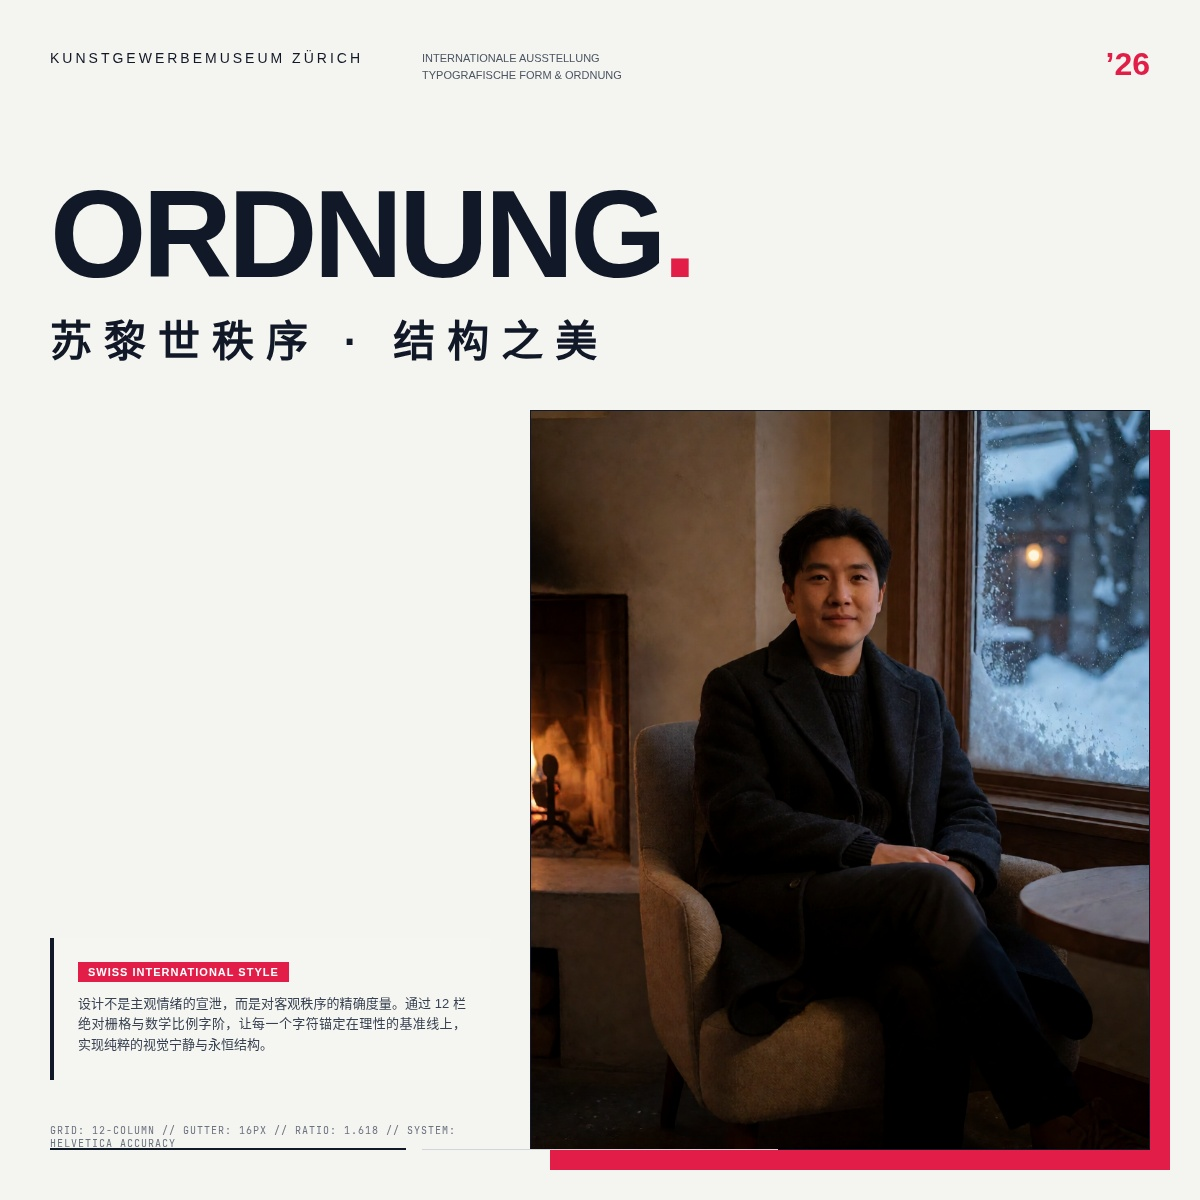
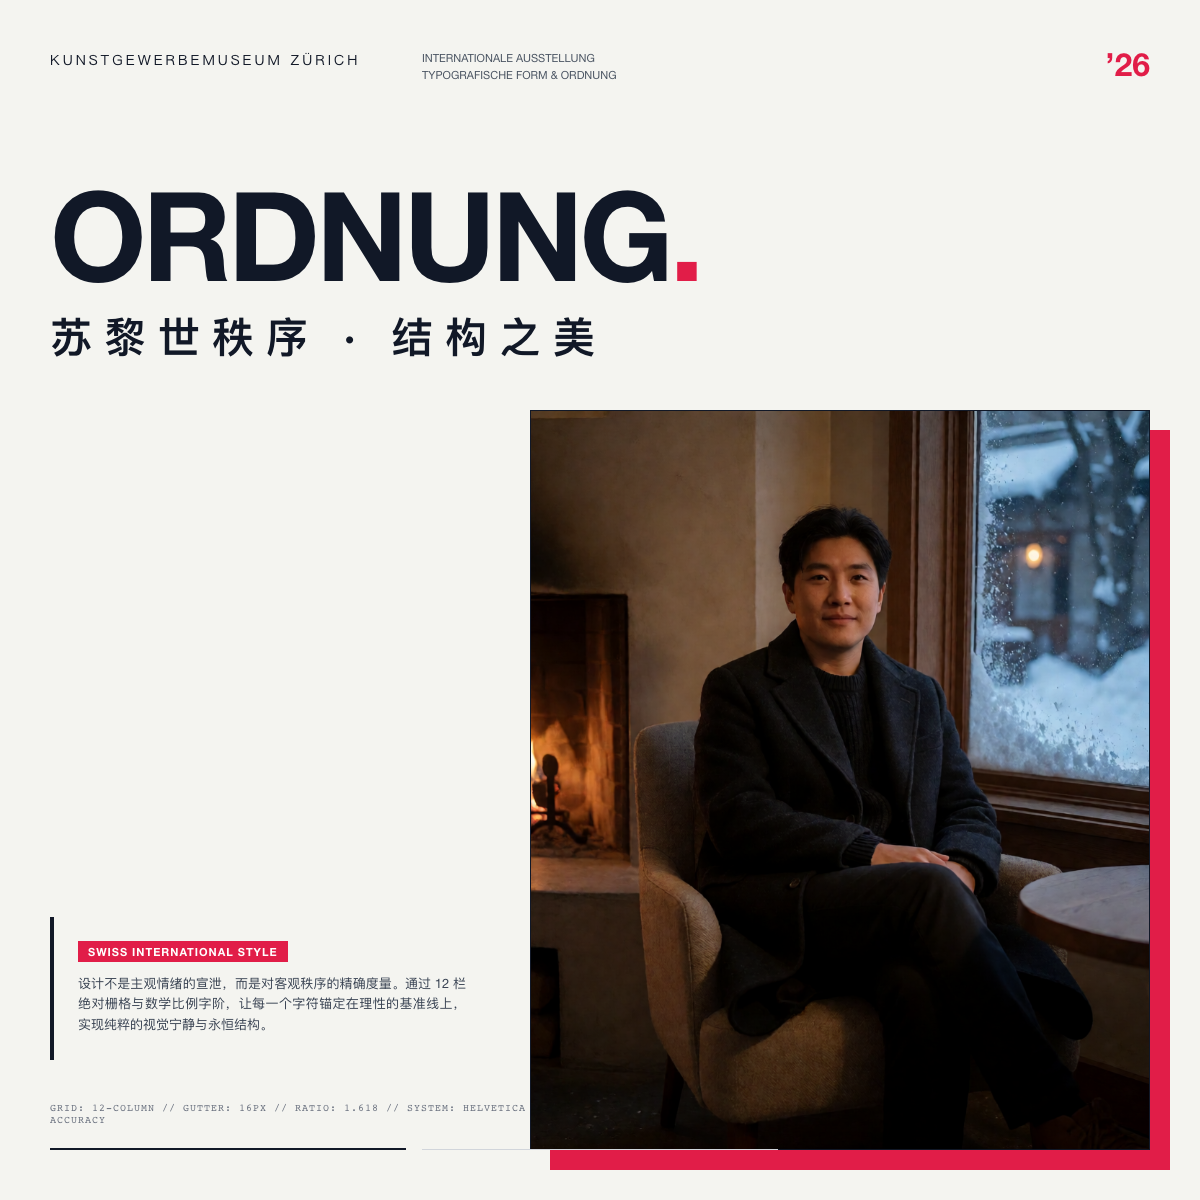
20261008-dev-agnesstudio-footerfix: 瑞士网格海报底部说明文字被裁切修复（footer-specs bottom 50->75px + width 440->500px，manifesto-block 120->140px）；重生成 swiss 系列海报

diff --git a/scripts/studio_server.py b/scripts/studio_server.py
@@ -621,12 +621,12 @@ def generate_custom_poster_html(style, title, subtitle, body, author, bg_uri):
   .main-hero-title span {{ color: #e11d48; }}
   .cn-display-title {{ font-size: 40px; font-weight: 800; letter-spacing: 10px; margin-top: 18px; color: #111827; }}
   .manifesto-block {{
-    position: absolute; bottom: 120px; left: 50px; width: 440px; z-index: 5;
+    position: absolute; bottom: 140px; left: 50px; width: 440px; z-index: 5;
     background: rgba(244, 244, 240, 0.96); padding: 24px; border-left: 4px solid #111827;
   }}
   .manifesto-text {{ font-size: 14px; line-height: 1.6; color: #374151; }}
   .badge-red {{ display: inline-block; background: #e11d48; color: #ffffff; font-size: 11px; font-weight: 700; padding: 4px 10px; margin-bottom: 12px; letter-spacing: 1px; }}
-  .footer-specs {{ position: absolute; bottom: 50px; left: 50px; width: 440px; font-size: 11px; font-family: monospace; color: #6b7280; letter-spacing: 1px; }}
+  .footer-specs {{ position: absolute; bottom: 75px; left: 50px; width: 500px; font-size: 11px; font-family: monospace; color: #6b7280; letter-spacing: 1px; }}
 </style></head><body>
   <div class="artwork-cutout"></div>
   <div class="header-tag">KUNSTGEWERBEMUSEUM ZÜRICH // {author}</div>

diff --git a/scripts/pro_poster_renderer.py b/scripts/pro_poster_renderer.py
@@ -122,7 +122,7 @@ def render_swiss_01():
     font-size: 42px; font-weight: 800; letter-spacing: 12px; margin-top: 18px; color: #111827;
   }}
   .manifesto-block {{
-    position: absolute; bottom: 120px; left: 50px; width: 440px; z-index: 5;
+    position: absolute; bottom: 140px; left: 50px; width: 440px; z-index: 5;
     background: rgba(244, 244, 240, 0.95); padding: 24px; border-left: 4px solid #111827;
   }}
   .manifesto-text {{
@@ -133,7 +133,7 @@ def render_swiss_01():
     font-size: 11px; font-weight: 700; padding: 4px 10px; margin-bottom: 12px; letter-spacing: 1px;
   }}
   .footer-specs {{
-    position: absolute; bottom: 50px; left: 50px; width: 440px;
+    position: absolute; bottom: 75px; left: 50px; width: 500px;
     font-size: 10px; font-family: monospace; color: #6b7280; letter-spacing: 1px;
   }}
 </style>
